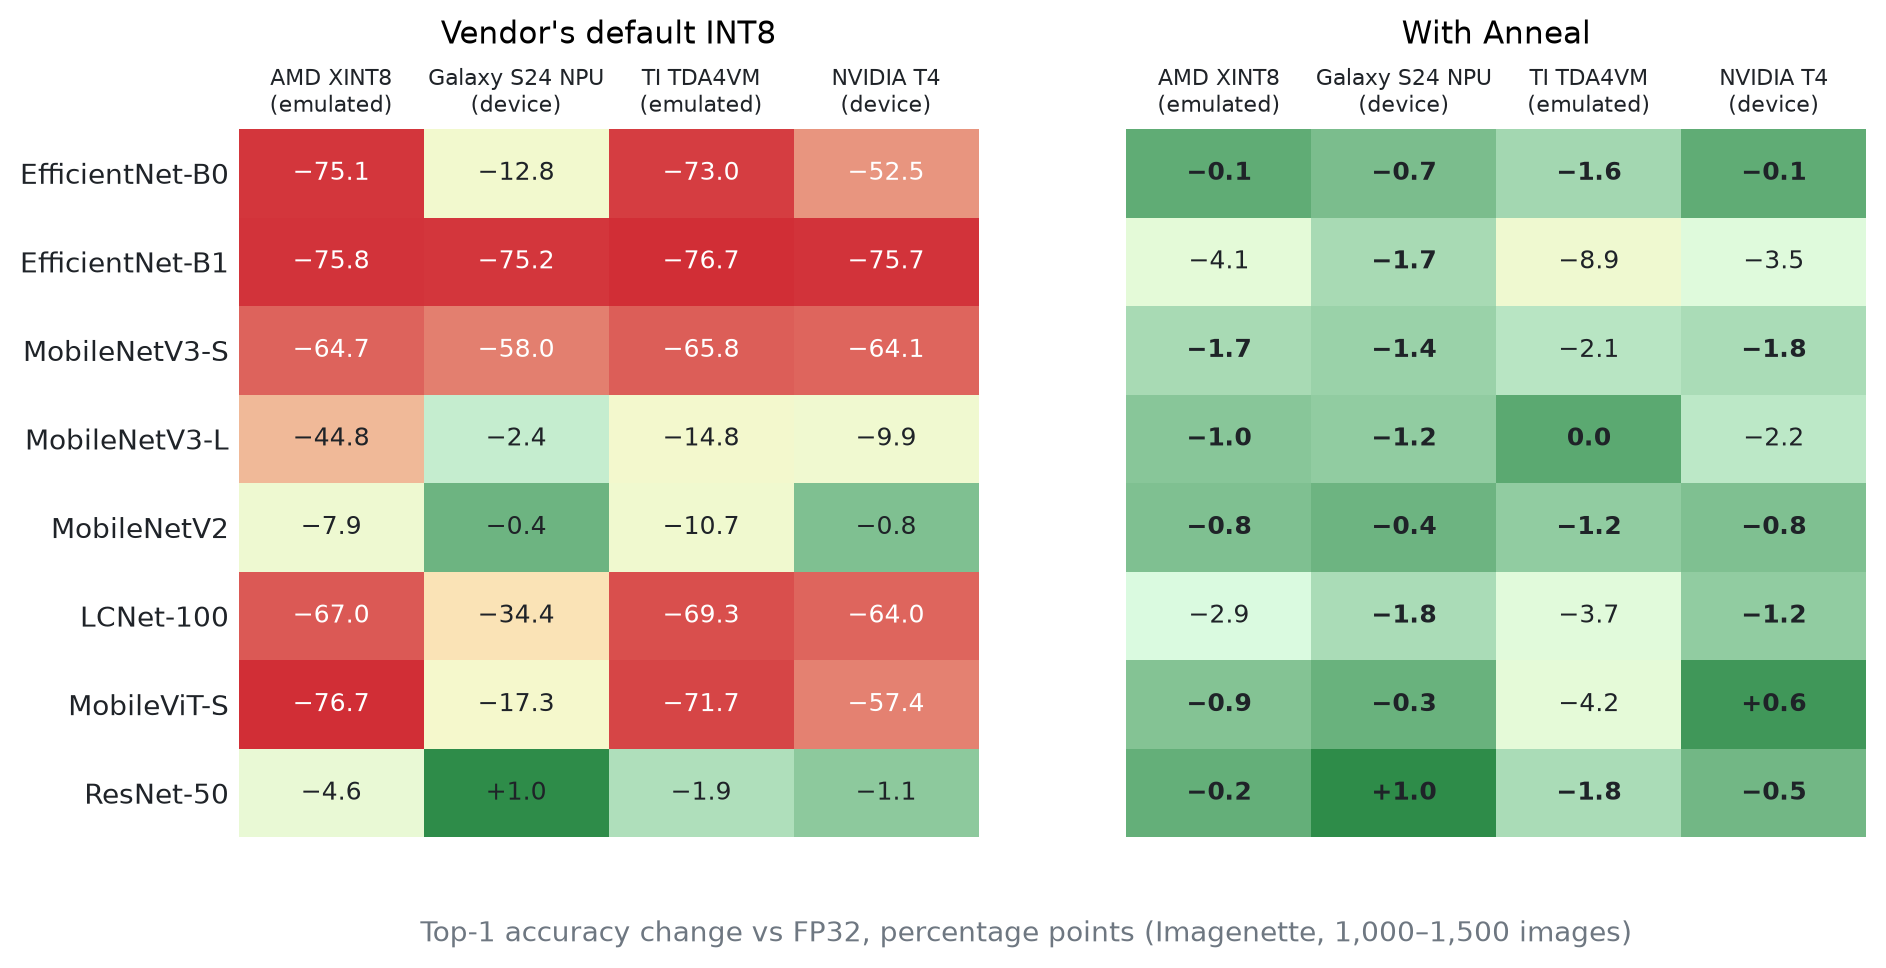
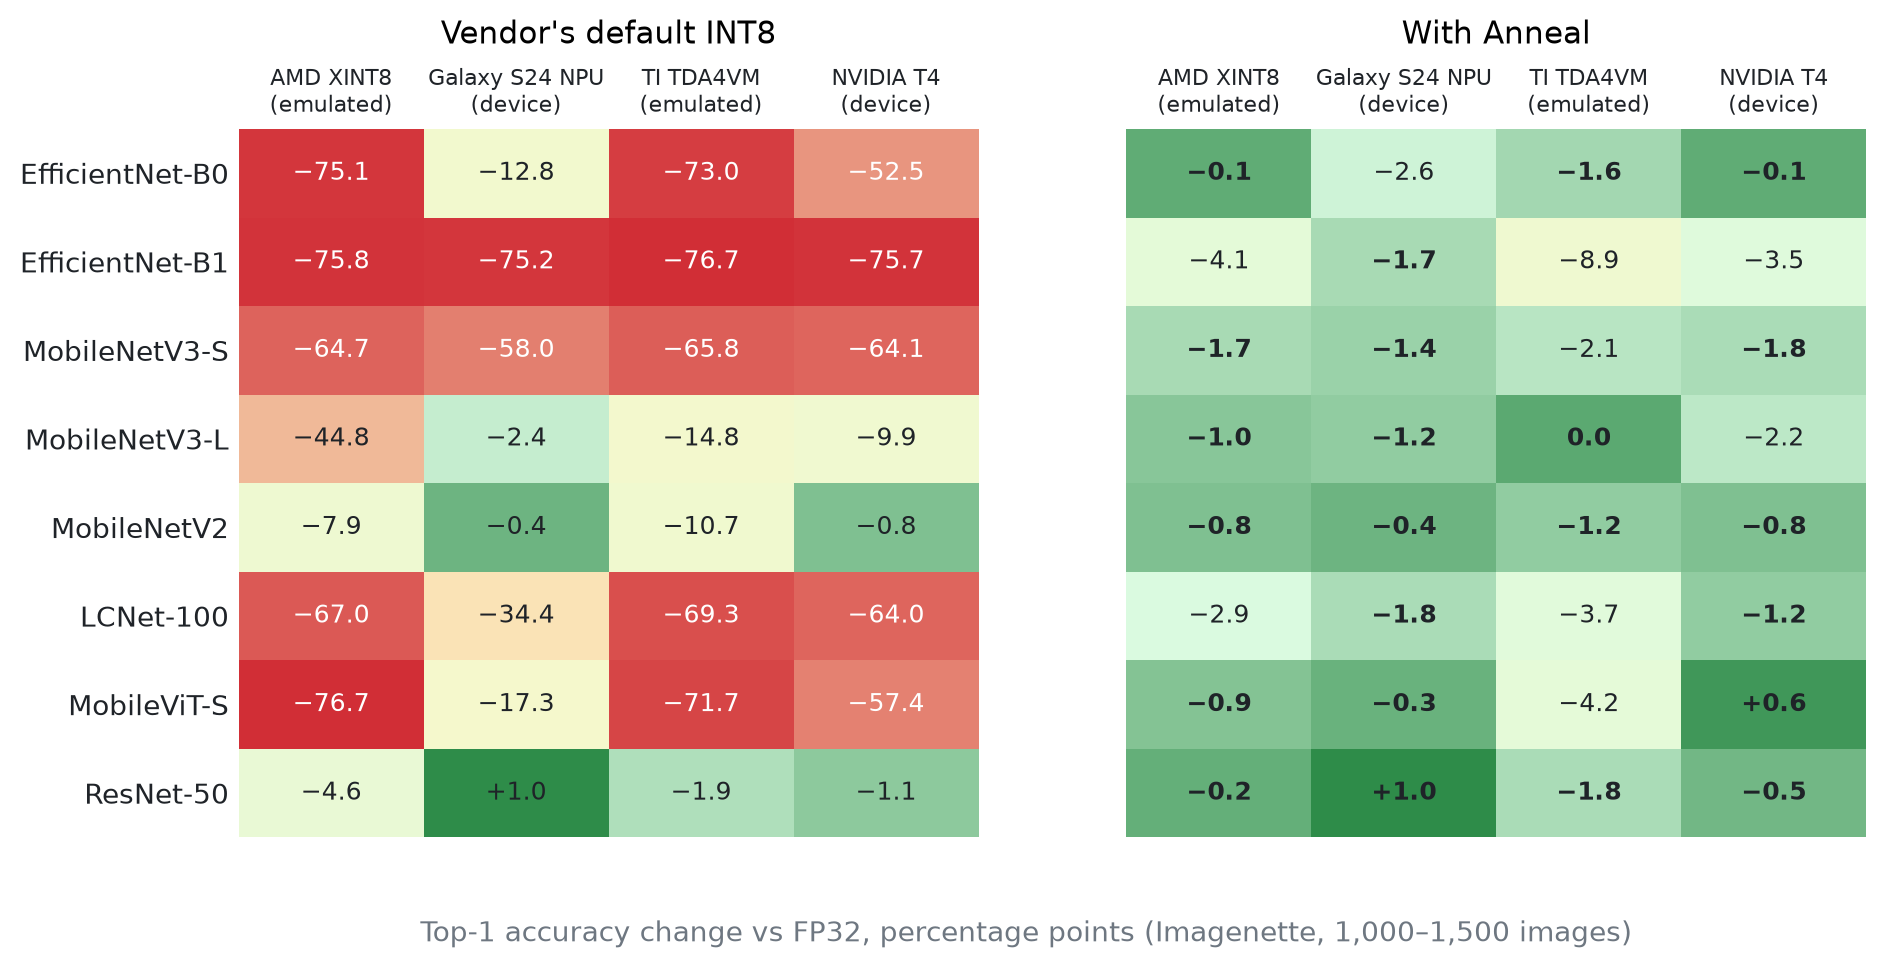
Post: holdout update (18/32 on new images, 13/32 on harder ones), S24 B0 corrected to -2.6, figures

Changed region(s): [[0.6766, 0.124, 0.7996, 0.2479]]

diff --git a/_posts/2026-09-28-int8-breaks-edge-models.md b/_posts/2026-09-28-int8-breaks-edge-models.md
@@ -66,9 +66,17 @@ Top-1 change vs FP32, percentage points, 300–1,500 Imagenette validation image
 paired against FP32 on the same images. The S24 and T4 are real devices. The AMD and TI
 numbers come from the vendors' own quantizers and emulators on a PC.
 
-- 26 of 32 model–toolchain pairs end within 2.2 points of FP32 (24 within 2.0).
-- EfficientNet-B0: −75 → −0.1 (AMD), −12.8 → −0.7 (S24), −73 → −1.6 (TI), −52 → −0.1 (T4).
+- 25 of 32 model–toolchain pairs end within 2.2 points of FP32.
+- EfficientNet-B0: −75 → −0.1 (AMD), −12.8 → −2.6 (S24), −73 → −1.6 (TI), −52 → −0.1 (T4).
 - MobileNetV3-Small: −58 to −66 → −1.4 to −2.1 on all four.
+
+*Update, 3 Oct:* I picked each chip's recipe on these same images, which flatters them. So I
+re-ran the frozen recipes on images I had never used. On new Imagenette images, 18 of 32 pairs
+are within 2.2 points. On harder new images (ten dog breeds), 13 of 32. The collapse and the
+recovery hold everywhere: every model that collapsed comes back, the worst to −10 (B1 on TI).
+The Qualcomm results are identical on three toolchain versions. One cell changed: S24 B0 was
+−0.7 when I first measured it and is −2.6 now, likely a change in Qualcomm's cloud quantizer.
+Details are in the [checks](https://github.com/Abhinandan1309/anneal/blob/main/docs/benchmark_grid.md#checks-toolchain-version-and-holdout-images-2026-10-03).
 
 ## What it costs
 
@@ -86,7 +94,7 @@ So the fix gets close to 16-bit accuracy for about a fifth of 16-bit's extra tim
 
 ## What I couldn't fix
 
-- EfficientNet-B1 on TI: still −8.9 points. TI's full 16-bit mode loses only 0.9, at 16-bit cost.
+- EfficientNet-B1 on TI: still −8.9 points (−10.3 on new images). TI's full 16-bit mode loses only 0.9, at 16-bit cost.
 - MobileViT on TI: −4.2. TI's own 16-bit mode does better (−2.6).
 - EfficientViT-B0 on TensorRT: −70 → −12.8. Better, not good.
 - Intel OpenVINO doesn't have the problem at all, so the rewrite doesn't help there.
